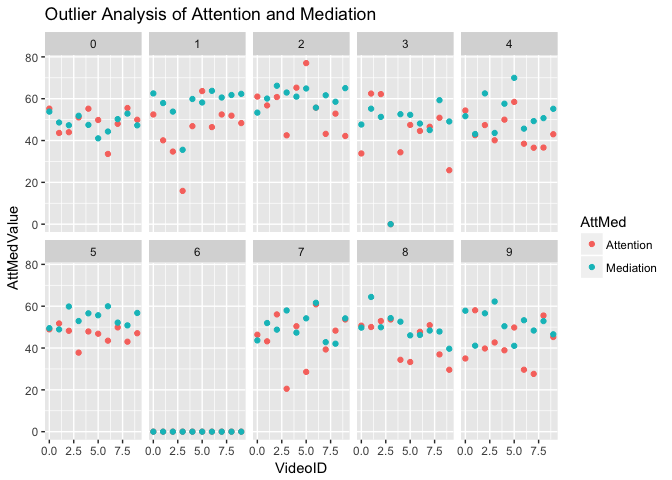
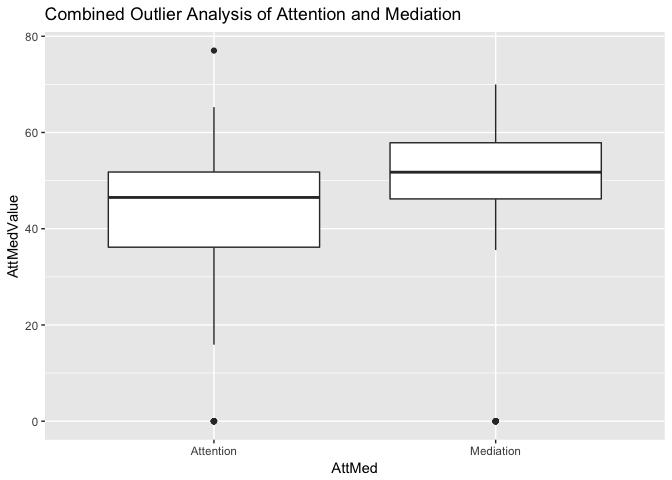
added predictor distributions and correlations

diff --git a/Ex2Solution.md b/Ex2Solution.md
@@ -1,12 +1,15 @@
 Exercise Set 2 Solution
 ================
 Tjeerd Dijkstra
-2018-01-07
+2018-01-08
 
 Introduction
 ============
 
-Examplary solution of excersises set 2 for Tuebingen neuroschool Machine Learning 1 Class. Analysis of data from the "EEG brainwave for confusion" Kaggle competition at <https://www.kaggle.com/wanghaohan/eeg-brain-wave-for-confusion> This solution shows a couple of features that are helpful: 1. it uses an R notebook, webinar at <https://www.rstudio.com/resources/webinars/introducing-notebooks-with-r-markdown/> 2. it uses git and github for version control and backup. See <http://happygitwithr.com>
+Examplary solution of excersises set 2 for Tuebingen neuroschool Machine Learning 1 Class. Analysis of data from the "EEG brainwave for confusion" Kaggle competition at <https://www.kaggle.com/wanghaohan/eeg-brain-wave-for-confusion> This solution shows a two of features that are helpful in writing reproducible code:
+
+1.  it uses an R notebook, webinar at <https://www.rstudio.com/resources/webinars/introducing-notebooks-with-r-markdown/>
+2.  it uses git and github for version control and backup. See <http://happygitwithr.com>
 
 ``` r
 library(readr); library(dplyr, warn.conflicts = FALSE); library(tidyr); library(tibble); library(ggplot2)
@@ -18,7 +21,7 @@ library(readr); library(dplyr, warn.conflicts = FALSE); library(tidyr); library(
 E1.1&E1.2
 ---------
 
-I prefer to use read\_csv() from the readr package as it gives more control than the default R read.csv(). I also like to set the colum types myself as this faster and safer. Lastly, as a minor detail it is a good idea to name the code chunks after the main object that is created in the chunk, here data.frame (tibble) Y.
+I prefer to use `read_csv()` from the readr package as it gives more control than the default R `read.csv()`. I also like to set the colum types myself as this faster and safer. Lastly, as a minor detail it is a good idea to name code chunks after the action in the chunk, here reading data.frame (tibble) Y as `readY`. Note that you can only see the code chunck names in the Rmd source code (in RStudio) not in the rendered markdown in Github.
 
 ``` r
 Y <- read_csv("EEGData.csv", col_types = "ddddddddddddddd",
@@ -30,7 +33,7 @@ Y <- read_csv("EEGData.csv", col_types = "ddddddddddddddd",
 E1.4
 ----
 
-For some reason the ID variables are coded as floating point. Change the ID variables to integer. I use package dplyr with the pipe notation. Using dplyr for data wrangling avoids almost all loops.
+For some reason the ID variables are coded as floating point in the original data file. Change the ID variables to integer. I use package dplyr with the pipe notation. Using dplyr for data wrangling avoids (almost) all loops.
 
 ``` r
 Y <- Y %>% mutate(SubjectID = as.integer(SubjectID), VideoID = as.integer(VideoID))
@@ -39,7 +42,7 @@ Y <- Y %>% mutate(SubjectID = as.integer(SubjectID), VideoID = as.integer(VideoI
 E1.3
 ----
 
-calculate mean of predictors per subject and video.
+calculate mean of predictors per subject and video and store result in data.frame `Ymean`.
 
 ``` r
 Ymean <- Y %>% group_by(SubjectID, VideoID) %>% summarise_all(mean)
@@ -48,7 +51,7 @@ Ymean <- Y %>% group_by(SubjectID, VideoID) %>% summarise_all(mean)
 optional
 --------
 
-This adds reported confusion as meaningfully encoded factor with levels "confused" and "not confused". In general you should encode your factors with descriptive levels. Almost all packages in R can work with these (in particular caret and ggplot2) but threre are still "old school" exceptions (for example glmnet for L1-penalized generalized linear models). As a last note, you should also explicitly prescribe the order of the levels. Withe two levels this is rarely relevant but when you have more there is usually a base or reference level that should come first.
+This adds reported confusion as meaningfully encoded factor with levels "confused" and "not confused". In general you should encode your factors with descriptive levels. Almost all packages in R can work with these (in particular caret and ggplot2) but there are "old school" exceptions (for example glmnet for L1-penalized generalized linear models). As a last note, you should also explicitly prescribe the order of the levels. With two levels this is rarely relevant but when you have more there is usually a base or reference level that should come first.
 
 ``` r
 Ymean <- Ymean %>% mutate(RepConfFactor = factor(if_else(ReportedConfusion == 1, "confused", "not confused"),
@@ -58,15 +61,15 @@ Ymean <- Ymean %>% mutate(RepConfFactor = factor(if_else(ReportedConfusion == 1,
 2 Outlier analysis
 ==================
 
-Using ggpairs() to look at all the data.
+Using `ggpairs()` to look at all the data. Note the lines of dots for Attention, Mediation and Raw (Raw is irrelevant since we will not be using it). As a minor point, by default `ggpairs()` spits out a progress bar for every panel (all 11<sup>2</sup> = 121 of them). This output messes up the notebook with useless information. The `progress = FALSE` discards the progress bar.
 
 ``` r
-library(GGally, warn.conflicts = FALSE); ggp.out <- ggpairs(select(ungroup(Ymean), Attention:Gamma2)); print(ggp.out, progress = FALSE)
+library(GGally, warn.conflicts=FALSE); print(ggpairs(select(ungroup(Ymean), Attention:Gamma2)), progress = FALSE)
 ```
 
 ![](Ex2Solution_files/figure-markdown_github/ggpairs-1.png)
 
-Using ggplot to look at Attention and Mediation data only
+Using `ggplot` to look at Attention and Mediation data separately. This shows that subject 6 has 10 outliers with Attention = 0 and Mediation = 0. Another outlier occurs for subject 3.
 
 ``` r
 print(ggplot(Ymean, aes(x = VideoID, y = Attention)) + geom_point() +
@@ -82,16 +85,101 @@ print(ggplot(Ymean, aes(x = VideoID, y = Mediation)) + geom_point() +
 
 ![](Ex2Solution_files/figure-markdown_github/OutlierPlotAttentionMediationSeparate-2.png)
 
-E2
---
+E2&E3
+-----
 
-Visual way to show that Attention and Mediation have the same outliers.
+Visual way to show that (1) value 0 is an outlier using box plats and (2) Attention and Mediation have the same outliers by combining the two separate plots for Attention and Mediation. You might also argue that the value of Attention of ~78 is an outlier, I left it in but this is a matter of taste. `gather()` prepares a data.frame for plotting with ggplot such that `AttMed` can be used as a factor to group and label the data points.
 
 ``` r
 Y.plot <- gather(Ymean, AttMed, AttMedValue, c(Attention, Mediation))
-print(ggplot(Y.plot, aes(x = VideoID, y = AttMedValue, group = AttMed, color = AttMed)) +
-        geom_point() + facet_wrap( ~ SubjectID, nrow = 2) +
-        labs(title = "Outlier Analysis of Attention and Mediation"))
+print(ggplot(Y.plot, aes(x = AttMed, y = AttMedValue)) + geom_boxplot() +
+        labs(title = "Combined Outlier Analysis of Attention and Mediation"))
 ```
 
 ![](Ex2Solution_files/figure-markdown_github/OutlierPlotAttentionMediationCombined-1.png)
+
+``` r
+print(ggplot(Y.plot, aes(x = VideoID, y = AttMedValue, group = AttMed, color = AttMed)) +
+        geom_point() + facet_wrap( ~ SubjectID, nrow = 2) +
+        labs(title = "Combined Outlier Analysis of Attention and Mediation"))
+```
+
+![](Ex2Solution_files/figure-markdown_github/OutlierPlotAttentionMediationCombined-2.png)
+
+This shows the occurances of the outliers in a table.
+
+``` r
+Y.table <- Ymean %>% filter(Attention == 0 | Mediation == 0)
+knitr::kable(Y.table, align = "c")
+```
+
+| SubjectID | VideoID | Attention | Mediation |    Raw    |   Delta  |   Theta  |   Alpha1  |   Alpha2  |   Beta1  |   Beta2   |   Gamma1  |   Gamma2  | ExpectedConfusion | ReportedConfusion | RepConfFactor |
+|:---------:|:-------:|:---------:|:---------:|:---------:|:--------:|:--------:|:---------:|:---------:|:--------:|:---------:|:---------:|:---------:|:-----------------:|:-----------------:|:-------------:|
+|     3     |    3    |     0     |     0     |  44.15972 | 679609.4 | 132381.8 |  42858.18 |  23484.26 | 14489.06 |  51326.99 |  13870.30 |  1893.528 |         0         |         0         |  not confused |
+|     6     |    0    |     0     |     0     | 367.64286 | 807545.8 | 401609.5 | 112919.50 | 141040.74 | 81007.96 | 112267.42 |  73135.29 | 79095.264 |         0         |         1         |    confused   |
+|     6     |    1    |     0     |     0     | 245.11972 | 595207.8 | 231366.3 |  41717.63 |  46124.11 | 48270.04 | 275703.88 | 287988.80 | 76448.254 |         0         |         0         |  not confused |
+|     6     |    2    |     0     |     0     | 263.95902 | 584569.7 | 225168.7 |  38174.02 |  39712.16 | 47837.54 | 276137.37 | 241545.21 | 82950.344 |         0         |         0         |  not confused |
+|     6     |    3    |     0     |     0     | 355.33621 | 855490.3 | 342884.9 | 125175.67 | 131039.50 | 96779.90 | 130072.51 |  92971.06 | 88753.534 |         0         |         1         |    confused   |
+|     6     |    4    |     0     |     0     | 199.18750 | 733256.7 | 255086.1 |  55608.26 |  51380.47 | 56770.83 | 297833.26 | 283081.88 | 97845.972 |         0         |         1         |    confused   |
+|     6     |    5    |     0     |     0     | 395.21138 | 675630.0 | 171917.0 |  44623.52 |  67194.67 | 49157.89 | 104084.02 | 109254.37 | 52460.350 |         1         |         0         |  not confused |
+|     6     |    6    |     0     |     0     | 418.47414 | 793951.1 | 247062.8 |  42978.52 |  75027.98 | 61951.91 | 159168.86 | 146848.16 | 66681.190 |         1         |         1         |    confused   |
+|     6     |    7    |     0     |     0     | 575.55752 | 755965.5 | 172671.8 |  56392.85 |  66123.72 | 55284.52 |  59506.11 |  53265.51 | 49019.354 |         1         |         0         |  not confused |
+|     6     |    8    |     0     |     0     | 426.96721 | 879076.2 | 241419.5 |  83642.09 |  93757.44 | 64246.57 |  83454.62 |  55968.06 | 56787.361 |         1         |         1         |    confused   |
+|     6     |    9    |     0     |     0     | 300.86861 | 822708.7 | 208945.3 |  67313.58 |  77372.23 | 51915.08 |  72598.35 |  61240.48 | 49866.518 |         1         |         0         |  not confused |
+
+E4
+--
+
+``` r
+Ymean <- Ymean %>% filter(Attention > 0 & Mediation > 0)
+```
+
+3 Predictor distributions and correlations
+==========================================
+
+E5
+--
+
+``` r
+Y.plot <- gather(Ymean, Predictor, PredValue, Delta:Gamma2)
+print(ggplot(Y.plot, aes(x = PredValue)) +
+        geom_density() + facet_wrap( ~ Predictor, nrow = 2, scales = "free") +
+        labs(title = "Predictor Distributions"))
+```
+
+![](Ex2Solution_files/figure-markdown_github/PredictorDistributionSkewness-1.png)
+
+``` r
+library(e1071)
+PredSkew <- Y.plot %>% group_by(Predictor) %>% summarize(Skewness = skewness(PredValue))
+knitr::kable(PredSkew, align = "c")
+```
+
+| Predictor |  Skewness  |
+|:---------:|:----------:|
+|   Alpha1  |  0.7937144 |
+|   Alpha2  |  1.1751507 |
+|   Beta1   |  0.6952884 |
+|   Beta2   |  1.0630570 |
+|   Delta   | -0.4232785 |
+|   Gamma1  |  1.2104615 |
+|   Gamma2  |  0.8156700 |
+|   Theta   |  0.3088136 |
+
+E6
+==
+
+Left for next year
+
+E7
+==
+
+`corrplot()` shows that Delta, Theta, Alpha1, Alpha2 and Beta2 are more correlated as a group and that Beta2, Gamma1 and Gamma2 form a second group.
+
+``` r
+library(corrplot, quietly = TRUE); corrplot(cor(select(ungroup(Ymean), Delta:Gamma2)))
+```
+
+    ## corrplot 0.84 loaded
+
+![](Ex2Solution_files/figure-markdown_github/corrplot-1.png)
